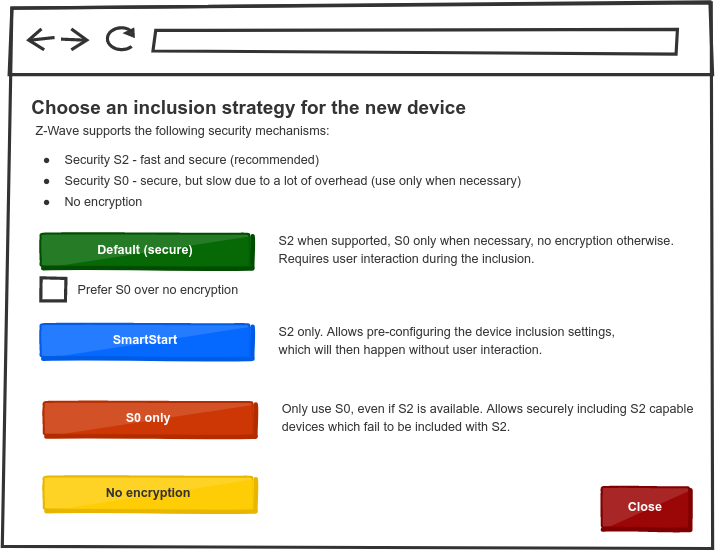
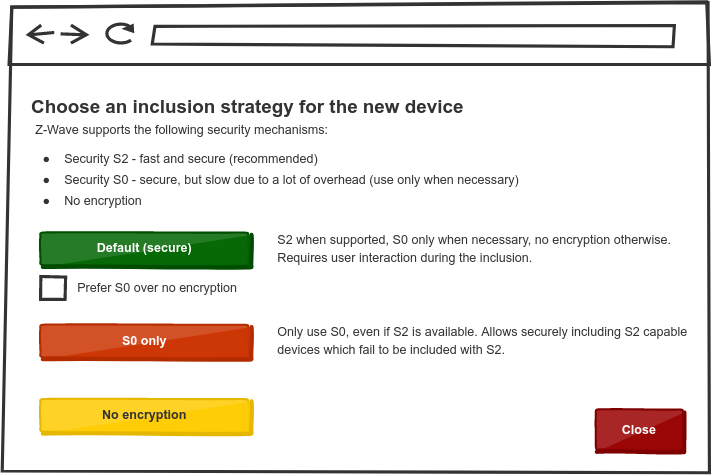
docs: update documentation for SmartStart and reworked inclusion

diff --git a/packages/zwave-js/src/lib/controller/Inclusion.ts b/packages/zwave-js/src/lib/controller/Inclusion.ts
@@ -140,9 +140,14 @@ export type SmartStartProvisioningEntry =
 	| IncludedSmartStartProvisioningEntry;
 
 export enum InclusionState {
+	/** The controller isn't doing anything regarding inclusion. */
 	Idle,
+	/** The controller is waiting for a node to be included. */
 	Including,
+	/** The controller is waiting for a node to be excluded. */
 	Excluding,
+	/** The controller is busy including or excluding a node. */
 	Busy,
+	/** The controller listening for SmartStart nodes to announce themselves. */
 	SmartStart,
 }

diff --git a/packages/zwave-js/src/lib/controller/Controller.ts b/packages/zwave-js/src/lib/controller/Controller.ts
@@ -532,7 +532,7 @@ export class ZWaveController extends TypedEventEmitter<ControllerEventCallbacks>
 	}
 
 	/**
-	 * Adds the given DSK or node ID from the controller's SmartStart provisioning list.
+	 * Removes the given DSK or node ID from the controller's SmartStart provisioning list.
 	 *
 	 * **Note:** If this entry corresponds to an included node, it will **NOT** be excluded
 	 */

diff --git a/docs/api/controller.md b/docs/api/controller.md
@@ -55,10 +55,6 @@ type InclusionOptions =
 			userCallbacks: InclusionUserCallbacks;
 	  }
 	| {
-			strategy: InclusionStrategy.SmartStart;
-			provisioningList: unknown;
-	  }
-	| {
 			strategy:
 				| InclusionStrategy.Insecure
 				| InclusionStrategy.Security_S0;
@@ -141,10 +137,12 @@ Stops the inclusion process for a new node. The returned promise resolves to `tr
 ### `beginExclusion`
 
 ```ts
-async beginExclusion(): Promise<boolean>
+async beginExclusion(unprovision?: boolean): Promise<boolean>
 ```
 
 Starts the exclusion process to remove a node from the network. The returned promise resolves to `true` if starting the exclusion was successful, `false` if it failed or if it was already active.
+
+The optional parameter `unprovision` specifies whether the removed node should be removed from the Smart Start provisioning list as well.
 
 ### `stopExclusion`
 
@@ -152,7 +150,62 @@ Starts the exclusion process to remove a node from the network. The returned pro
 async stopExclusion(): Promise<boolean>
 ```
 
-Stops the exclusion process to remove a node from the network.The returned promise resolves to `true` if stopping the exclusion was successful, `false` if it failed or if it was not active.
+Stops the exclusion process to remove a node from the network. The returned promise resolves to `true` if stopping the exclusion was successful, `false` if it failed or if it was not active.
+
+### `provisionSmartStartNode`
+
+```ts
+provisionSmartStartNode(entry: PlannedSmartStartProvisioningEntry): void
+```
+
+Adds the given entry (DSK and security classes) to the controller's SmartStart provisioning list. The node will be included out of band when it powers up.
+
+The parameter has the following shape:
+
+```ts
+interface PlannedSmartStartProvisioningEntry {
+	dsk: Buffer;
+	securityClasses: SecurityClass[];
+}
+```
+
+> [!NOTE] The DSK must be given as a buffer. Converting between the standard string form and buffers can be done with the `dskFromString` and `dskToString` methods which can be imported from `@zwave-js/core`.
+
+### `unprovisionSmartStartNode`
+
+```ts
+unprovisionSmartStartNode(dskOrNodeId: Buffer | number): void
+```
+
+Removes the given DSK or node ID from the controller's SmartStart provisioning list. The DSK must be given as a buffer.
+
+> [!NOTE] If this entry corresponds to an already-included node, it will **NOT** be excluded.
+
+### `getProvisioningEntry`
+
+```ts
+getProvisioningEntry(dsk: Buffer): SmartStartProvisioningEntry | undefined
+```
+
+Returns the entry for the given DSK from the controller's SmartStart provisioning list. The returned entry (if found) has the following shape:
+
+```ts
+interface SmartStartProvisioningEntry {
+	dsk: Buffer;
+	securityClasses: SecurityClass[];
+	nodeId?: number;
+}
+```
+
+The `nodeId` will be set when the entry corresponds to an included node.
+
+### `getProvisioningEntries`
+
+```ts
+getProvisioningEntries(): SmartStartProvisioningEntry[]
+```
+
+Returns all entries from the controller's SmartStart provisioning list.
 
 ### `getNodeNeighbors`
 
@@ -599,10 +652,35 @@ Returns the ID of the controller in the current network.
 ### `isHealNetworkActive`
 
 ```ts
-isHealNetworkActive: boolean;
+readonly isHealNetworkActive: boolean;
 ```
 
 Returns whether the network or a node is currently being healed.
+
+### `inclusionState`
+
+```ts
+readonly inclusionState: InclusionState
+```
+
+Returns the controller state regarding inclusion/exclusion.
+
+<!-- #import InclusionState from "zwave-js" -->
+
+```ts
+enum InclusionState {
+	/** The controller isn't doing anything regarding inclusion. */
+	Idle,
+	/** The controller is waiting for a node to be included. */
+	Including,
+	/** The controller is waiting for a node to be excluded. */
+	Excluding,
+	/** The controller is busy including or excluding a node. */
+	Busy,
+	/** The controller listening for SmartStart nodes to announce themselves. */
+	SmartStart,
+}
+```
 
 ## Controller events
 

diff --git a/docs/getting-started/security-s2.md b/docs/getting-started/security-s2.md
@@ -77,7 +77,7 @@ await driver.controller.beginInclusion({
 
 ### Inclusion strategy
 
-Z-Wave JS offers multiple ways to include a device, but we only recommend a few of them. For most use cases, the **default** inclusion strategy should be enough. For modern devices, **SmartStart** makes the inclusion even easier for the user due to not requiring interaction during the inclusion process. If you absolutely must, you can force **unencrypted communication**.
+Z-Wave JS offers multiple ways to include a device, but we only recommend a few of them. For most use cases, the **default** inclusion strategy should be enough. If you absolutely must, you can force **unencrypted communication**.
 
 Furthermore it has been found that some locks claim to support S2, but don't respond to the key exchange commands. Because it is not possible to try with S0 after S2 has been attempted, an option to **use only S0** must exist.
 
@@ -121,3 +121,13 @@ driver.controller.on("node added", (node, result) => {
 
 Therefore, the inclusion result should be displayed and a user MUST be warned about a problem during the inclusion, e.g. by displaying one of these dialogs:
 ![inclusion result](../_images/s2-inclusion-result.png)
+
+## SmartStart
+
+For modern devices, **SmartStart** makes the inclusion even easier for the user due to not requiring interaction during the inclusion process. SmartStart capable nodes are pre-provisioned through entering their DSK and granting security classes outside of the inclusion process. When a node on the provisioning list announces itself, it will automatically be included in the network within a couple of minutes. A UI to manage the provisioning list could look like this:
+
+![Smart Start provisioning list](../_images/smart-start.png)
+
+Scanning a QR code can further simplify this process, but decoding the QR codes isn't implemented yet.
+
+> [!NOTE] Confirming the inclusion process like with normal S2 inclusion is recommended, so users can react to a failed bootstrapping attempt.
